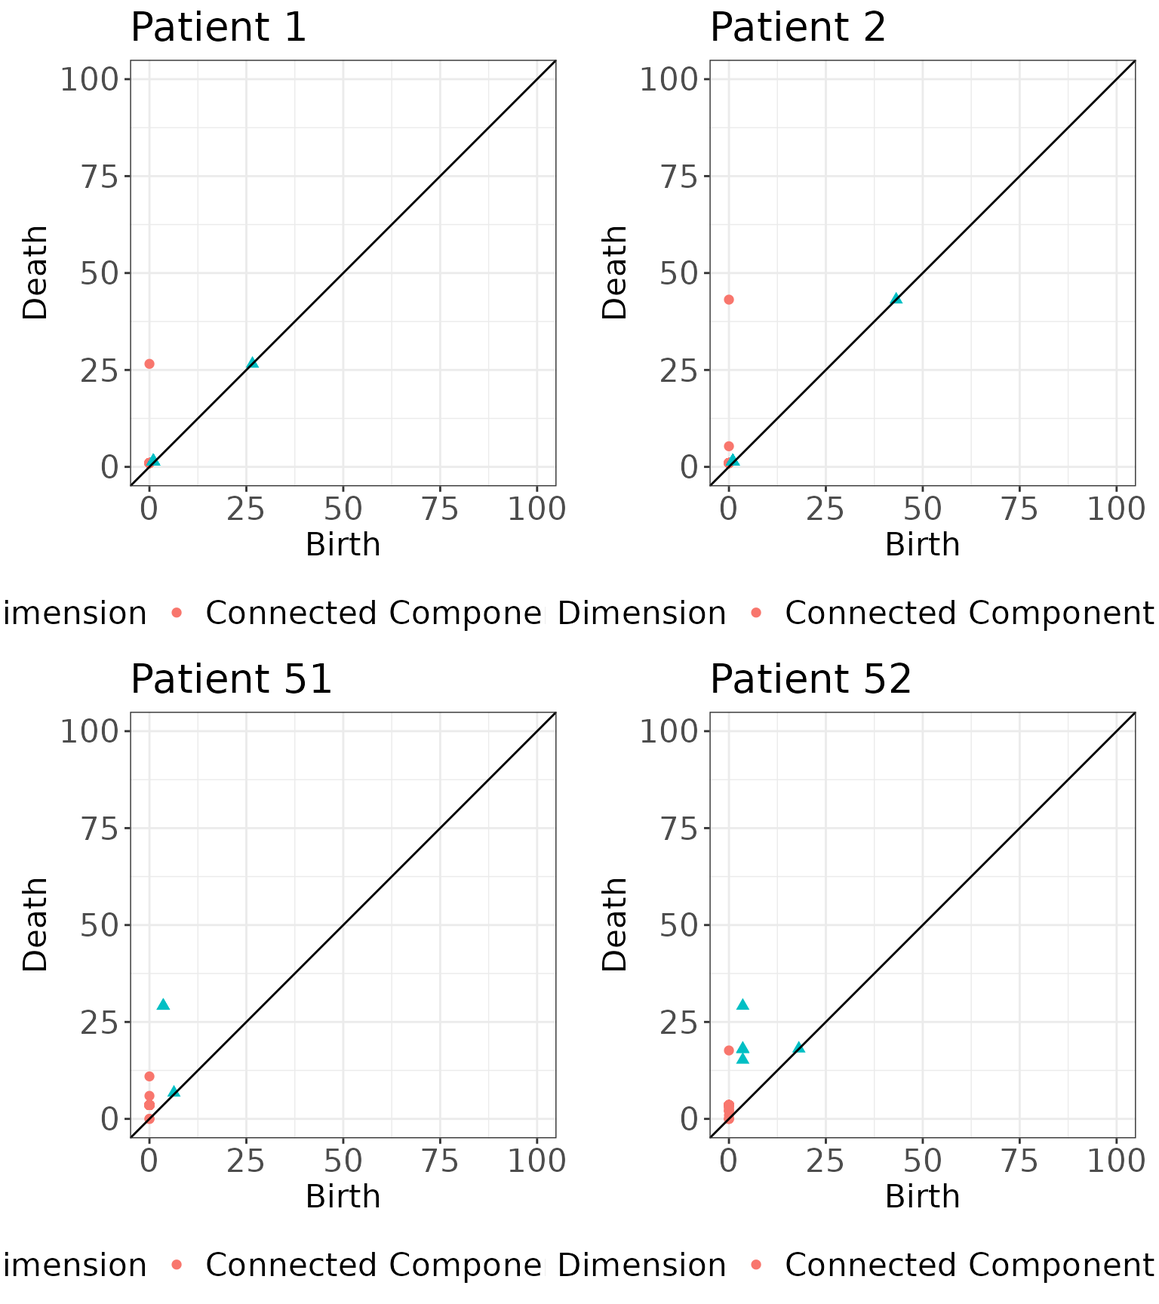
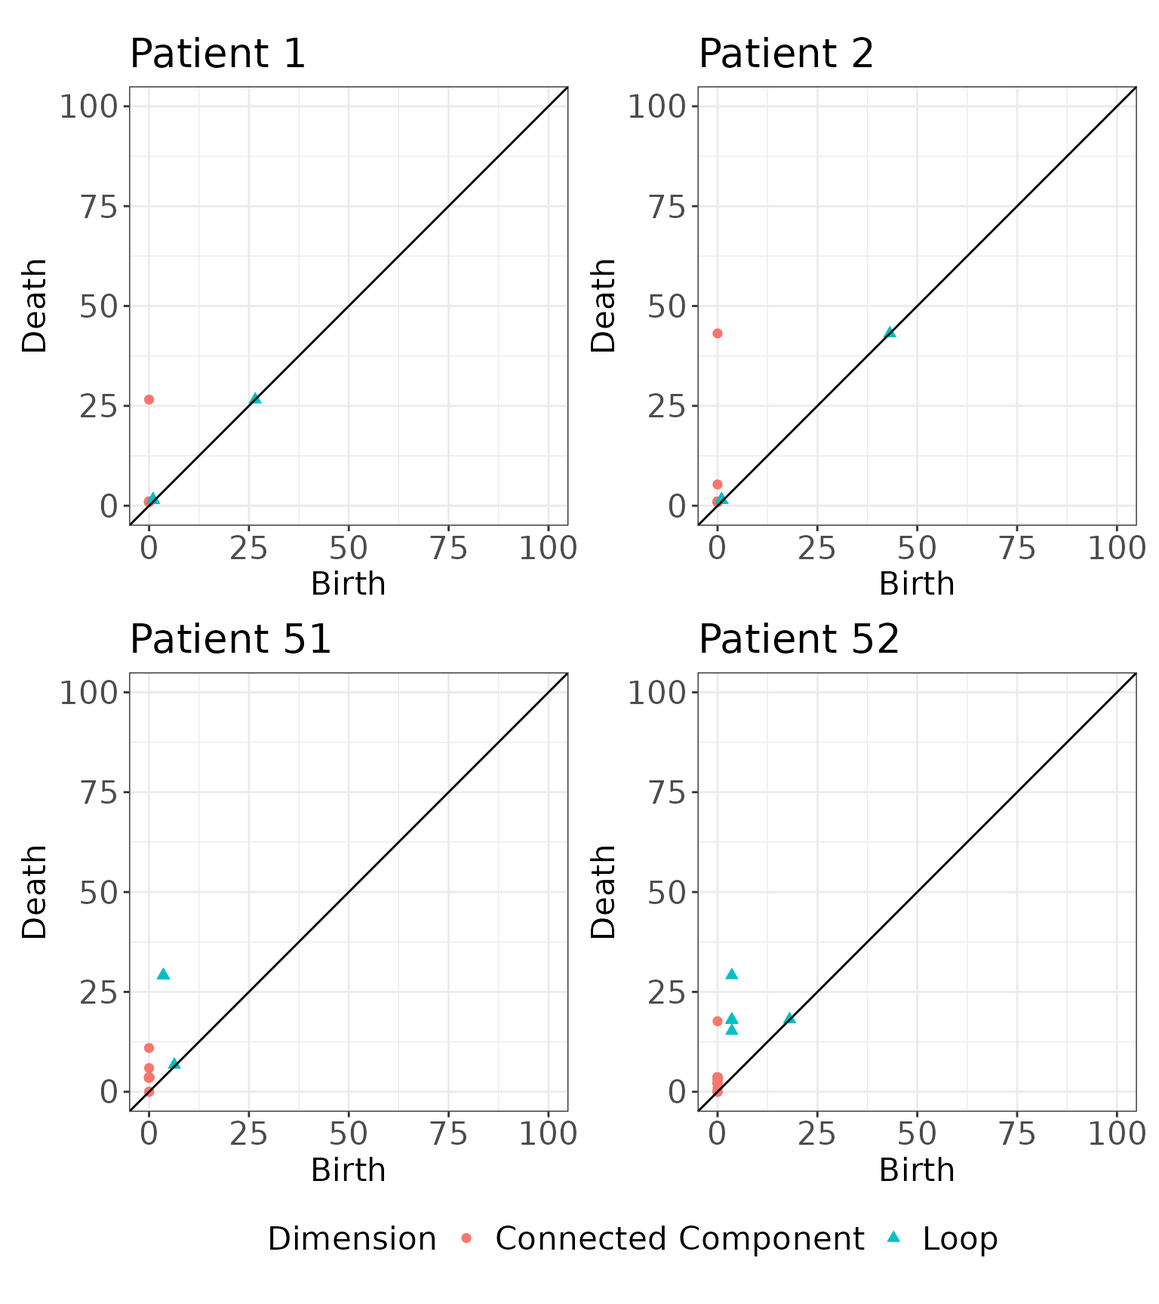
Deploying to gh-pages from @ sarahsamorodnitsky/TopKAT@27e0a231edc46885f8d282469d6dc3b54020b772 🚀

diff --git a/articles/TopKAT.html b/articles/TopKAT.html
@@ -77,10 +77,11 @@
 </h2>
 <p>In this vignette, we illustrate how to apply the <code>TopKAT</code>
 method to analyze cell-level imaging data.</p>
-<p>The motivation behind <code>TopKAT</code> is specifically the
-analysis of multiplexed spatial proteomics imaging, in which the
-phenotype and locations of cells is derived based on the spatial
-proteome.</p>
+<p>The motivation behind <code>TopKAT</code> is the analysis of
+multiplexed spatial proteomics imaging in which the phenotype and
+locations of cells is derived based on the spatial proteome. The goal is
+to examine the association between the geometry of cells in these images
+with patient-level outcomes.</p>
 <p>This vignette will rely on simulated point pattern data that includes
 contrived shapes, namely squares and circles.</p>
 </div>
@@ -95,6 +96,7 @@ our simulated data.</p>
 <span><span class="co">#&gt; Registered S3 method overwritten by 'httr':</span></span>
 <span><span class="co">#&gt;   method         from  </span></span>
 <span><span class="co">#&gt;   print.response rmutil</span></span>
+<span><span class="kw"><a href="https://rdrr.io/r/base/library.html" class="external-link">library</a></span><span class="op">(</span><span class="va"><a href="https://patchwork.data-imaginist.com" class="external-link">patchwork</a></span><span class="op">)</span></span>
 <span><span class="kw"><a href="https://rdrr.io/r/base/library.html" class="external-link">library</a></span><span class="op">(</span><span class="va">gridExtra</span><span class="op">)</span></span>
 <span><span class="kw"><a href="https://rdrr.io/r/base/library.html" class="external-link">library</a></span><span class="op">(</span><span class="va"><a href="https://github.com/therneau/survival" class="external-link">survival</a></span><span class="op">)</span></span>
 <span><span class="kw"><a href="https://rdrr.io/r/base/library.html" class="external-link">library</a></span><span class="op">(</span><span class="va"><a href="https://rpkgs.datanovia.com/survminer/index.html" class="external-link">survminer</a></span><span class="op">)</span></span>
@@ -166,7 +168,7 @@ first image) or large loops.</p>
 <span>  <span class="fu"><a href="https://ggplot2.tidyverse.org/reference/ggtheme.html" class="external-link">theme_bw</a></span><span class="op">(</span><span class="op">)</span> <span class="op">+</span> <span class="fu"><a href="https://ggplot2.tidyverse.org/reference/labs.html" class="external-link">ggtitle</a></span><span class="op">(</span><span class="st">"Sample 52"</span><span class="op">)</span></span>
 <span></span>
 <span><span class="co"># Arrange the plots</span></span>
-<span><span class="fu">gridExtra</span><span class="fu">::</span><span class="fu"><a href="https://rdrr.io/pkg/gridExtra/man/arrangeGrob.html" class="external-link">grid.arrange</a></span><span class="op">(</span><span class="va">p1</span>, <span class="va">p2</span>, <span class="va">p3</span>, <span class="va">p4</span>, ncol <span class="op">=</span> <span class="fl">2</span>, nrow <span class="op">=</span> <span class="fl">2</span><span class="op">)</span></span></code></pre></div>
+<span><span class="op">(</span><span class="va">p1</span> <span class="op">+</span> <span class="va">p2</span> <span class="op">+</span> <span class="va">p3</span> <span class="op">+</span> <span class="va">p4</span> <span class="op">&amp;</span> <span class="fu"><a href="https://ggplot2.tidyverse.org/reference/theme.html" class="external-link">theme</a></span><span class="op">(</span>legend.position <span class="op">=</span> <span class="st">"bottom"</span><span class="op">)</span><span class="op">)</span> <span class="op">+</span> <span class="fu"><a href="https://patchwork.data-imaginist.com/reference/plot_layout.html" class="external-link">plot_layout</a></span><span class="op">(</span>guides <span class="op">=</span> <span class="st">"collect"</span><span class="op">)</span></span></code></pre></div>
 <p><img src="TopKAT_files/figure-html/plotting%20the%20data-1.png" width="768" style="display: block; margin: auto;"></p>
 </div>
 <div class="section level2">
@@ -195,18 +197,17 @@ sizes, they will be more similar than two images with differences in
 these attributes.</p>
 <p>To detect and quantify the size these homologies, we use a summary
 statistic known as a . The persistence diagram summarizes the number and
-size of connected components and loops. We will illustrate two examples
-of persistence diagrams below.</p>
+size of connected components and loops. We will illustrate examples of
+persistence diagrams below.</p>
 <p>The first step in using the <code>TopKAT</code> package is to
 calculate the kernel matrices which quantify the similarity between
 images. We will use the function <code>rips_similarity_matrix</code> to
 compute the kernel matrices. Note that we compute a separate kernel
-matrix for connected components and loops. In other words, we first
-compare the images on the basis of connected components and then on the
-basis of loops, yielding two matrices quantifying the pairwise
-similarities among the images. Later, in our kernel association test, we
-will aggregate across these matrices to yield an omnibus test of
-association.</p>
+matrix for connected components and loops, meaning we first compare the
+images on the basis of connected components and then on the basis of
+loops, yielding two matrices quantifying the pairwise similarities among
+the images. Later, in our kernel association test, we will aggregate
+across both matrices to yield an omnibus test of association.</p>
 <p>Below, we show how to calculate the kernel matrices using
 <code>rips_similarity_matrix</code> using a maximum radius of
 <math display="inline" xmlns="http://www.w3.org/1998/Math/MathML"><semantics><mn>100</mn><annotation encoding="application/x-tex">100</annotation></semantics></math>.
@@ -236,7 +237,7 @@ corresponding persistence diagrams for the four samples shown above.</p>
 <span><span class="va">pd4</span> <span class="op">&lt;-</span> <span class="fu"><a href="../reference/plot_persistence.html">plot_persistence</a></span><span class="op">(</span><span class="va">simmat</span><span class="op">$</span><span class="va">rips.list</span><span class="op">[[</span><span class="fl">52</span><span class="op">]</span><span class="op">]</span>, title <span class="op">=</span> <span class="st">"Patient 52"</span><span class="op">)</span></span>
 <span></span>
 <span><span class="co"># Arrange the plots</span></span>
-<span><span class="fu">gridExtra</span><span class="fu">::</span><span class="fu"><a href="https://rdrr.io/pkg/gridExtra/man/arrangeGrob.html" class="external-link">grid.arrange</a></span><span class="op">(</span><span class="va">pd1</span>, <span class="va">pd2</span>, <span class="va">pd3</span>, <span class="va">pd4</span>, ncol <span class="op">=</span> <span class="fl">2</span>, nrow <span class="op">=</span> <span class="fl">2</span><span class="op">)</span></span></code></pre></div>
+<span><span class="op">(</span><span class="va">pd1</span> <span class="op">+</span> <span class="va">pd2</span> <span class="op">+</span> <span class="va">pd3</span> <span class="op">+</span> <span class="va">pd4</span> <span class="op">&amp;</span> <span class="fu"><a href="https://ggplot2.tidyverse.org/reference/theme.html" class="external-link">theme</a></span><span class="op">(</span>legend.position <span class="op">=</span> <span class="st">"bottom"</span><span class="op">)</span><span class="op">)</span> <span class="op">+</span> <span class="fu"><a href="https://patchwork.data-imaginist.com/reference/plot_layout.html" class="external-link">plot_layout</a></span><span class="op">(</span>guides <span class="op">=</span> <span class="st">"collect"</span><span class="op">)</span></span></code></pre></div>
 <p><img src="TopKAT_files/figure-html/example%20PDs-1.png" width="768" style="display: block; margin: auto;"></p>
 <p>We also show a visualization of the kernel matrices to describe the
 similarities among the images. Note that the similarity values in the
@@ -263,7 +264,7 @@ to compare the similarities between two pairs of images.</p>
 <span>  <span class="fu"><a href="https://ggplot2.tidyverse.org/reference/labs.html" class="external-link">ggtitle</a></span><span class="op">(</span><span class="st">"Kernel Matrix for Loops"</span><span class="op">)</span></span>
 <span></span>
 <span><span class="co"># Arrange the plots</span></span>
-<span><span class="fu">gridExtra</span><span class="fu">::</span><span class="fu"><a href="https://rdrr.io/pkg/gridExtra/man/arrangeGrob.html" class="external-link">grid.arrange</a></span><span class="op">(</span><span class="va">K.cc</span>, <span class="va">K.loop</span>, ncol <span class="op">=</span> <span class="fl">2</span><span class="op">)</span></span></code></pre></div>
+<span><span class="va">K.cc</span> <span class="op">+</span> <span class="va">K.loop</span> <span class="op">&amp;</span> <span class="fu"><a href="https://ggplot2.tidyverse.org/reference/theme.html" class="external-link">theme</a></span><span class="op">(</span>legend.position <span class="op">=</span> <span class="st">"bottom"</span><span class="op">)</span></span></code></pre></div>
 <p><img src="TopKAT_files/figure-html/visualize%20the%20kernel%20matrices-1.png" width="768" style="display: block; margin: auto;"></p>
 <p>Finally, we can test for an association with survival given the
 kernel matrices we computed above. Since we have two kernel matrices, we
@@ -363,7 +364,7 @@ like for our example images:</p>
 <span><span class="op">)</span></span>
 <span></span>
 <span><span class="co"># Arrange the plots</span></span>
-<span><span class="fu">gridExtra</span><span class="fu">::</span><span class="fu"><a href="https://rdrr.io/pkg/gridExtra/man/arrangeGrob.html" class="external-link">grid.arrange</a></span><span class="op">(</span><span class="va">sc1</span>, <span class="va">sc2</span>, <span class="va">sc3</span>, <span class="va">sc4</span>, nrow <span class="op">=</span> <span class="fl">2</span>, ncol <span class="op">=</span> <span class="fl">2</span><span class="op">)</span></span></code></pre></div>
+<span><span class="va">sc1</span> <span class="op">+</span> <span class="va">sc2</span> <span class="op">+</span> <span class="va">sc3</span> <span class="op">+</span> <span class="va">sc4</span></span></code></pre></div>
 <p><img src="TopKAT_files/figure-html/simplicial%20complex-1.png" width="768" style="display: block; margin: auto;">
 Finally, we can examine the connectivity of the cell types at this
 radius using connectivity matrices. These matrices enumerate how many
@@ -405,7 +406,7 @@ We visualize these matrices for the four samples given above.</p>
 <span><span class="op">)</span></span>
 <span></span>
 <span><span class="co"># Arrange the plots</span></span>
-<span><span class="fu">gridExtra</span><span class="fu">::</span><span class="fu"><a href="https://rdrr.io/pkg/gridExtra/man/arrangeGrob.html" class="external-link">grid.arrange</a></span><span class="op">(</span><span class="va">c1</span>, <span class="va">c2</span>, <span class="va">c3</span>, <span class="va">c4</span>, nrow <span class="op">=</span> <span class="fl">2</span>, ncol <span class="op">=</span> <span class="fl">2</span><span class="op">)</span></span></code></pre></div>
+<span><span class="va">c1</span> <span class="op">+</span> <span class="va">c2</span> <span class="op">+</span> <span class="va">c3</span> <span class="op">+</span> <span class="va">c4</span></span></code></pre></div>
 <p><img src="TopKAT_files/figure-html/connectivity%20matrices-1.png" width="768" style="display: block; margin: auto;"></p>
 <p>It can also be illustrative to compute an average connectivity matrix
 across the whole cohort or within known patient samples, as shown

diff --git a/reference/rips_similarity_matrix.html b/reference/rips_similarity_matrix.html
@@ -1,7 +1,7 @@
 <!DOCTYPE html>
-<!-- Generated by pkgdown: do not edit by hand --><html lang="en"><head><meta http-equiv="Content-Type" content="text/html; charset=UTF-8"><meta charset="utf-8"><meta http-equiv="X-UA-Compatible" content="IE=edge"><meta name="viewport" content="width=device-width, initial-scale=1, shrink-to-fit=no"><title>Calculate a similarity matrix based on the Rips filtration — rips_similarity_matrix • TopKAT</title><script src="../lightswitch.js"></script><script src="../deps/jquery-3.6.0/jquery-3.6.0.min.js"></script><meta name="viewport" content="width=device-width, initial-scale=1, shrink-to-fit=no"><link href="../deps/bootstrap-5.3.1/bootstrap.min.css" rel="stylesheet"><script src="../deps/bootstrap-5.3.1/bootstrap.bundle.min.js"></script><link href="../deps/font-awesome-6.4.2/css/all.min.css" rel="stylesheet"><link href="../deps/font-awesome-6.4.2/css/v4-shims.min.css" rel="stylesheet"><script src="../deps/headroom-0.11.0/headroom.min.js"></script><script src="../deps/headroom-0.11.0/jQuery.headroom.min.js"></script><script src="../deps/bootstrap-toc-1.0.1/bootstrap-toc.min.js"></script><script src="../deps/clipboard.js-2.0.11/clipboard.min.js"></script><script src="../deps/search-1.0.0/autocomplete.jquery.min.js"></script><script src="../deps/search-1.0.0/fuse.min.js"></script><script src="../deps/search-1.0.0/mark.min.js"></script><!-- pkgdown --><script src="../pkgdown.js"></script><meta property="og:title" content="Calculate a similarity matrix based on the Rips filtration — rips_similarity_matrix"><meta name="description" content="Given an input of data, computes a Rips filtration and persistence diagram for
+<!-- Generated by pkgdown: do not edit by hand --><html lang="en"><head><meta http-equiv="Content-Type" content="text/html; charset=UTF-8"><meta charset="utf-8"><meta http-equiv="X-UA-Compatible" content="IE=edge"><meta name="viewport" content="width=device-width, initial-scale=1, shrink-to-fit=no"><title>Calculate a similarity matrix based on the Rips filtration — rips_similarity_matrix • TopKAT</title><script src="../lightswitch.js"></script><script src="../deps/jquery-3.6.0/jquery-3.6.0.min.js"></script><meta name="viewport" content="width=device-width, initial-scale=1, shrink-to-fit=no"><link href="../deps/bootstrap-5.3.1/bootstrap.min.css" rel="stylesheet"><script src="../deps/bootstrap-5.3.1/bootstrap.bundle.min.js"></script><link href="../deps/font-awesome-6.4.2/css/all.min.css" rel="stylesheet"><link href="../deps/font-awesome-6.4.2/css/v4-shims.min.css" rel="stylesheet"><script src="../deps/headroom-0.11.0/headroom.min.js"></script><script src="../deps/headroom-0.11.0/jQuery.headroom.min.js"></script><script src="../deps/bootstrap-toc-1.0.1/bootstrap-toc.min.js"></script><script src="../deps/clipboard.js-2.0.11/clipboard.min.js"></script><script src="../deps/search-1.0.0/autocomplete.jquery.min.js"></script><script src="../deps/search-1.0.0/fuse.min.js"></script><script src="../deps/search-1.0.0/mark.min.js"></script><!-- pkgdown --><script src="../pkgdown.js"></script><meta property="og:title" content="Calculate a similarity matrix based on the Rips filtration — rips_similarity_matrix"><meta name="description" content="Given input data, computes a Rips filtration and persistence diagram for
 each image. Then constructs a pairwise similarity matrix for each homology group
-(connected components and loops) based on the resulting persistence diagrams."><meta property="og:description" content="Given an input of data, computes a Rips filtration and persistence diagram for
+(connected components and loops) based on the resulting persistence diagrams."><meta property="og:description" content="Given input data, computes a Rips filtration and persistence diagram for
 each image. Then constructs a pairwise similarity matrix for each homology group
 (connected components and loops) based on the resulting persistence diagrams."></head><body>
     <a href="#main" class="visually-hidden-focusable">Skip to contents</a>
@@ -47,7 +47,7 @@ each image. Then constructs a pairwise similarity matrix for each homology group
     </div>
 
     <div class="ref-description section level2">
-    <p>Given an input of data, computes a Rips filtration and persistence diagram for
+    <p>Given input data, computes a Rips filtration and persistence diagram for
 each image. Then constructs a pairwise similarity matrix for each homology group
 (connected components and loops) based on the resulting persistence diagrams.</p>
     </div>

diff --git a/reference/similarity_matrix.html b/reference/similarity_matrix.html
@@ -1,8 +1,8 @@
 <!DOCTYPE html>
-<!-- Generated by pkgdown: do not edit by hand --><html lang="en"><head><meta http-equiv="Content-Type" content="text/html; charset=UTF-8"><meta charset="utf-8"><meta http-equiv="X-UA-Compatible" content="IE=edge"><meta name="viewport" content="width=device-width, initial-scale=1, shrink-to-fit=no"><title>Construct a pairwise similarity matrix — similarity_matrix • TopKAT</title><script src="../lightswitch.js"></script><script src="../deps/jquery-3.6.0/jquery-3.6.0.min.js"></script><meta name="viewport" content="width=device-width, initial-scale=1, shrink-to-fit=no"><link href="../deps/bootstrap-5.3.1/bootstrap.min.css" rel="stylesheet"><script src="../deps/bootstrap-5.3.1/bootstrap.bundle.min.js"></script><link href="../deps/font-awesome-6.4.2/css/all.min.css" rel="stylesheet"><link href="../deps/font-awesome-6.4.2/css/v4-shims.min.css" rel="stylesheet"><script src="../deps/headroom-0.11.0/headroom.min.js"></script><script src="../deps/headroom-0.11.0/jQuery.headroom.min.js"></script><script src="../deps/bootstrap-toc-1.0.1/bootstrap-toc.min.js"></script><script src="../deps/clipboard.js-2.0.11/clipboard.min.js"></script><script src="../deps/search-1.0.0/autocomplete.jquery.min.js"></script><script src="../deps/search-1.0.0/fuse.min.js"></script><script src="../deps/search-1.0.0/mark.min.js"></script><!-- pkgdown --><script src="../pkgdown.js"></script><meta property="og:title" content="Construct a pairwise similarity matrix — similarity_matrix"><meta name="description" content="similarity_matrix is a helper function used within the rips_similarity_matrix
-function to construct a pairwise similarity matrix comparing pairs of
-persistence diagrams."><meta property="og:description" content="similarity_matrix is a helper function used within the rips_similarity_matrix
-function to construct a pairwise similarity matrix comparing pairs of
+<!-- Generated by pkgdown: do not edit by hand --><html lang="en"><head><meta http-equiv="Content-Type" content="text/html; charset=UTF-8"><meta charset="utf-8"><meta http-equiv="X-UA-Compatible" content="IE=edge"><meta name="viewport" content="width=device-width, initial-scale=1, shrink-to-fit=no"><title>Construct a pairwise similarity matrix — similarity_matrix • TopKAT</title><script src="../lightswitch.js"></script><script src="../deps/jquery-3.6.0/jquery-3.6.0.min.js"></script><meta name="viewport" content="width=device-width, initial-scale=1, shrink-to-fit=no"><link href="../deps/bootstrap-5.3.1/bootstrap.min.css" rel="stylesheet"><script src="../deps/bootstrap-5.3.1/bootstrap.bundle.min.js"></script><link href="../deps/font-awesome-6.4.2/css/all.min.css" rel="stylesheet"><link href="../deps/font-awesome-6.4.2/css/v4-shims.min.css" rel="stylesheet"><script src="../deps/headroom-0.11.0/headroom.min.js"></script><script src="../deps/headroom-0.11.0/jQuery.headroom.min.js"></script><script src="../deps/bootstrap-toc-1.0.1/bootstrap-toc.min.js"></script><script src="../deps/clipboard.js-2.0.11/clipboard.min.js"></script><script src="../deps/search-1.0.0/autocomplete.jquery.min.js"></script><script src="../deps/search-1.0.0/fuse.min.js"></script><script src="../deps/search-1.0.0/mark.min.js"></script><!-- pkgdown --><script src="../pkgdown.js"></script><meta property="og:title" content="Construct a pairwise similarity matrix — similarity_matrix"><meta name="description" content="similarity_matrix is a helper function used within rips_similarity_matrix
+to construct a pairwise similarity matrix comparing pairs of
+persistence diagrams."><meta property="og:description" content="similarity_matrix is a helper function used within rips_similarity_matrix
+to construct a pairwise similarity matrix comparing pairs of
 persistence diagrams."></head><body>
     <a href="#main" class="visually-hidden-focusable">Skip to contents</a>
 
@@ -47,8 +47,8 @@ persistence diagrams."></head><body>
     </div>
 
     <div class="ref-description section level2">
-    <p><code>similarity_matrix</code> is a helper function used within the <code>rips_similarity_matrix</code>
-function to construct a pairwise similarity matrix comparing pairs of
+    <p><code>similarity_matrix</code> is a helper function used within <code>rips_similarity_matrix</code>
+to construct a pairwise similarity matrix comparing pairs of
 persistence diagrams.</p>
     </div>
 

diff --git a/reference/TopKAT.html b/reference/TopKAT.html
@@ -60,11 +60,7 @@ or survival outcomes.</p>
 <span>  cens <span class="op">=</span> <span class="cn">NULL</span>,</span>
 <span>  <span class="va">K.list</span>,</span>
 <span>  <span class="va">omega.list</span>,</span>
-<span>  outcome.type <span class="op">=</span> <span class="st">"continuous"</span>,</span>
-<span>  method <span class="op">=</span> <span class="st">"davies"</span>,</span>
-<span>  omnibus <span class="op">=</span> <span class="st">"cauchy"</span>,</span>
-<span>  perm <span class="op">=</span> <span class="cn">FALSE</span>,</span>
-<span>  nperm <span class="op">=</span> <span class="fl">999</span></span>
+<span>  outcome.type <span class="op">=</span> <span class="st">"continuous"</span></span>
 <span><span class="op">)</span></span></code></pre></div>
     </div>
 
@@ -95,35 +91,15 @@ interested in a specific homology.</p></dd>
 
 <dt id="arg-omega-list">omega.list<a class="anchor" aria-label="anchor" href="#arg-omega-list"></a></dt>
 <dd><p>Vector of weights to create different combinations of the kernel matrices.
-Some suggested options: c(0, 1) then TopKAT will combine the p-values for a test associating the
-connected components with y and the loops with y separately. c(0, 0.5, 1) will combine p-values
+Some suggested options: <code>c(0, 1)</code> then TopKAT will combine the p-values for a test associating the
+connected components with y and the loops with y separately; <code>c(0, 0.5, 1)</code> will combine p-values
 across just the connected components, an even split of connected components and loops,
 and just loops.</p></dd>
 
 
 <dt id="arg-outcome-type">outcome.type<a class="anchor" aria-label="anchor" href="#arg-outcome-type"></a></dt>
 <dd><p>What kind of outcome is y? Options include "continuous",
-"binary", or "survival".</p></dd>
-
-
-<dt id="arg-method">method<a class="anchor" aria-label="anchor" href="#arg-method"></a></dt>
-<dd><p>Specifies how the kernel p-value should be calculated. Options
-include "davies" for an analytical p-value calculation or "permutation". Only
-for continuous or binary outcomes.</p></dd>
-
-
-<dt id="arg-omnibus">omnibus<a class="anchor" aria-label="anchor" href="#arg-omnibus"></a></dt>
-<dd><p>If providing multiple kernel matrices, specify how the p-values
-should be combined. Defaults to "cauchy" for the Cauchy combination test.</p></dd>
-
-
-<dt id="arg-perm">perm<a class="anchor" aria-label="anchor" href="#arg-perm"></a></dt>
-<dd><p>Required only for survival outcomes. Specifies if permutations should
-be used. Default is FALSE and Davies method is used.</p></dd>
-
-
-<dt id="arg-nperm">nperm<a class="anchor" aria-label="anchor" href="#arg-nperm"></a></dt>
-<dd><p>If using permutations, how many permutations should be used?</p></dd>
+"binary", or "survival"</p></dd>
 
 </dl></div>
     <div class="section level2">

diff --git a/index.html b/index.html
@@ -62,7 +62,7 @@
   <main id="main" class="col-md-9"><div class="section level1">
 <div class="page-header"><h1 id="topkat-topological-kernel-association-test-">TopKAT: Topological Kernel Association Test <img src="reference/figures/TopKAT_hex.png" align="right" alt="" width="120"><a class="anchor" aria-label="anchor" href="#topkat-topological-kernel-association-test-"></a>
 </h1></div>
-<p>TopKAT is a global test of association between the topological (geometric) structure of cells in cell-level imaging data. The goal of the <code>TopKAT</code> package is to provide the software to run this test and do post-hoc analyses of the results.</p>
+<p>TopKAT is a global test of association between the topological (geometric) structure of cells in cell-level imaging data and patient-level outcomes. The goal of the <code>TopKAT</code> package is to provide the software to run this test and do post-hoc analyses of the results.</p>
 <div class="section level2">
 <h2 id="installation">Installation<a class="anchor" aria-label="anchor" href="#installation"></a>
 </h2>
